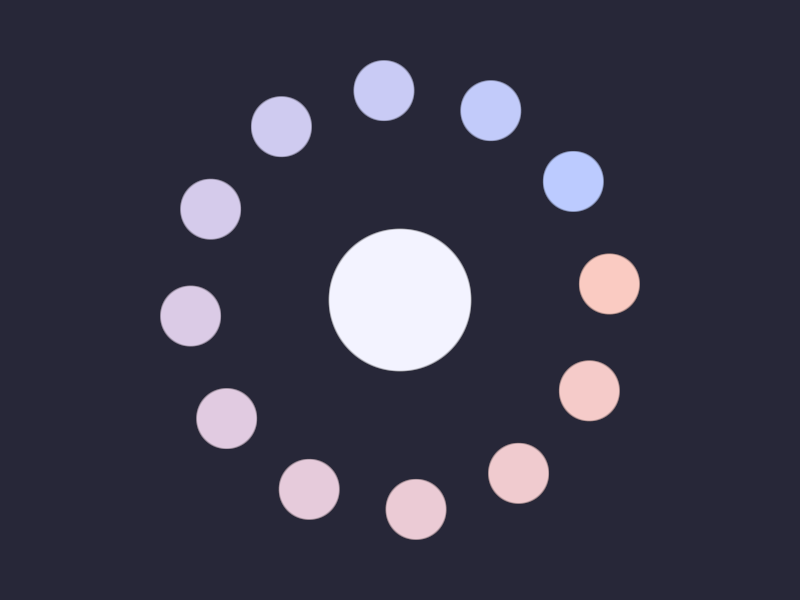
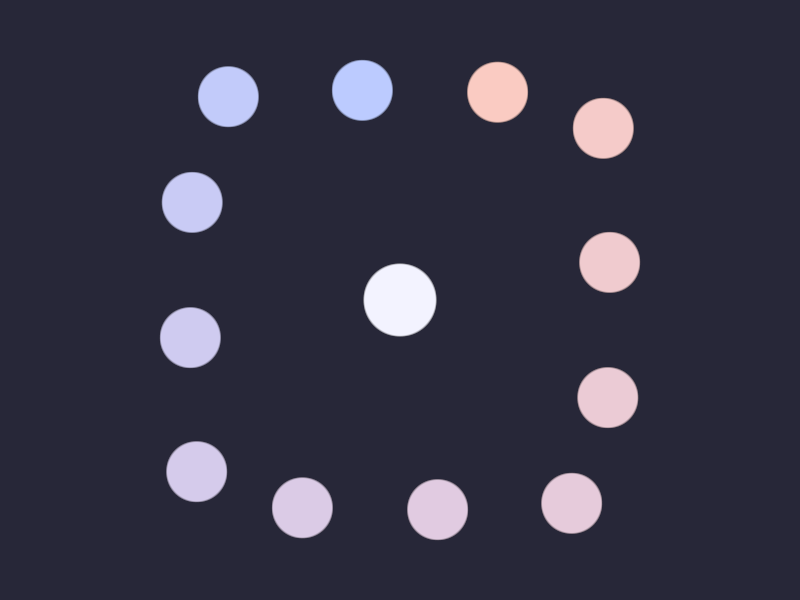
Scene Camera

diff --git a/src/render/camera.rs b/src/render/camera.rs
@@ -6,7 +6,8 @@
 //! uniform is uploaded each frame from the current time and target size.
 
 use crate::render::context::Gpu;
-use glam::Mat4;
+use crate::scene::Camera;
+use glam::prelude::*;
 
 #[repr(C)]
 #[derive(Clone, Copy, bytemuck::Pod, bytemuck::Zeroable)]
@@ -16,19 +17,16 @@ struct CameraUniform {
     _pad: [f32; 3],
 }
 
-/// Camera is currently defined to be exclusively orthographic, but the
-/// future will support multiple cameras and more complex APIs without
-/// needing to make significant pipeline changes. Cameras are always
-/// set to bind group 0.
-pub struct Camera {
-    scene_height: f32,
+/// Contains the data needed to upload a CameraUniform to the GPU at bind group
+/// 0.
+pub struct CameraBuffer {
     buffer: wgpu::Buffer,
     layout: wgpu::BindGroupLayout,
     bind_group: wgpu::BindGroup,
 }
 
-impl Camera {
-    pub fn new(gpu: &Gpu, scene_height: f32) -> Self {
+impl CameraBuffer {
+    pub fn new(gpu: &Gpu) -> Self {
         let buffer = gpu.device().create_buffer(&wgpu::BufferDescriptor {
             label: Some("nelo camera uniform"),
             size: std::mem::size_of::<CameraUniform>() as u64,
@@ -62,7 +60,6 @@ impl Camera {
         });
 
         Self {
-            scene_height,
             buffer,
             layout,
             bind_group,
@@ -79,21 +76,42 @@ impl Camera {
         &self.bind_group
     }
 
-    /// Recompute and upload the view-projection for this frame.
-    pub fn upload(&self, gpu: &Gpu, time: f32, size: (u32, u32)) {
-        let (w, h) = size;
-        let aspect = if h == 0 { 1.0 } else { w as f32 / h as f32 };
-        let half_h = self.scene_height * 0.5;
-        let half_w = half_h * aspect;
+    /// Sample and upload a camera for this frame.
+    pub fn upload(&self, gpu: &Gpu, size: (u32, u32), camera: &Camera, time: f32) {
+        // Sample the camera
+        let (scene_height, transform) = camera.sample(time);
 
-        // Orthographic projection, column-major. Maps
-        let view_proj = glam::camera::lh::proj::directx::orthographic(
-            -half_w, half_w, -half_h, half_h, 0.0, 1.0,
+        // Construct the view matrix to undo the cameras transformation.
+        let inverse = transform.inverse();
+        let matrix = inverse.matrix2;
+        let translation = inverse.translation;
+        let view = Mat4::from_cols(
+            Vec4::new(matrix.x_axis.x, matrix.x_axis.y, 0.0, 0.0),
+            Vec4::new(matrix.y_axis.x, matrix.y_axis.y, 0.0, 0.0),
+            Vec4::new(0.0, 0.0, 1.0, 0.0),
+            Vec4::new(translation.x, translation.y, 0.0, 1.0),
         );
 
+        // Project the world into device space.
+        let (width, height) = size;
+        let aspect = if height != 0 {
+            width as f32 / height as f32
+        } else {
+            1.0
+        };
+        let proj = glam::camera::lh::proj::directx::orthographic(
+            -scene_height * aspect * 0.5,
+            scene_height * aspect * 0.5,
+            -scene_height * 0.5,
+            scene_height * 0.5,
+            0.0,
+            1.0,
+        );
+
+        let view_proj = proj * view;
         let uniform = CameraUniform {
             view_proj,
-            time: time,
+            time,
             _pad: [0.0; 3],
         };
         gpu.queue()

diff --git a/src/render/scene.rs b/src/render/scene.rs
@@ -1,21 +1,32 @@
 //! Scene renderer renders a scene at a given time. It must own its scene.
 
-use crate::render::{Camera, Gpu, Renderer};
+use crate::render::{CameraBuffer, CircleRenderer, Gpu, Renderer};
 use crate::scene::Scene;
 
 pub struct SceneRenderer {
-    camera: Camera,
     scene: Scene,
+    camera_buffer: CameraBuffer,
     renderers: Vec<Box<dyn Renderer>>,
 }
 
 impl SceneRenderer {
-    pub fn new(camera: Camera, scene: Scene) -> Self {
+    pub fn new(gpu: &Gpu, format: wgpu::TextureFormat, scene: Scene) -> Self {
+        let camera_buffer = CameraBuffer::new(&gpu);
+        let renderers: Vec<Box<dyn Renderer>> = vec![Box::new(CircleRenderer::new(
+            gpu,
+            &camera_buffer.layout(),
+            format,
+        ))];
+
         Self {
             scene,
-            camera,
-            renderers: Vec::new(),
+            camera_buffer,
+            renderers,
         }
+    }
+
+    pub fn camera_buffer(&self) -> &CameraBuffer {
+        &self.camera_buffer
     }
 
     pub fn add(&mut self, renderer: impl Renderer + 'static) {
@@ -30,9 +41,10 @@ impl SceneRenderer {
             renderer.prepare(&gpu, &self.scene, t);
         }
 
-        // Update the camera data.
+        // Upload the camera data into the buffer.
         let size = (view.texture().width(), view.texture().height());
-        self.camera.upload(gpu, t, size);
+        self.camera_buffer
+            .upload(gpu, size, &self.scene.camera(), t);
 
         // Get our command encoder and build our render pass.
         let mut encoder = gpu
@@ -64,10 +76,9 @@ impl SceneRenderer {
                 multiview_mask: None,
             });
 
-            // Camera is always at binding 0.
-            pass.set_bind_group(0, self.camera.bind_group(), &[]);
-
             for renderer in self.renderers.iter() {
+                // Camera is bound to group zero, but renderers are free to override.
+                pass.set_bind_group(0, self.camera_buffer.bind_group(), &[]);
                 renderer.submit(&mut pass);
             }
         }

diff --git a/src/scene.rs b/src/scene.rs
@@ -1,11 +1,13 @@
 //! A [`Scene`] is an interface between data and rendering.
 
+pub mod camera;
 pub mod component;
 pub mod entity;
 pub mod path;
 mod registry;
 pub mod transform;
 
+pub use camera::Camera;
 pub use component::{Circle, Fill};
 pub use entity::{EntityId, EntityRef};
 pub(crate) use registry::{Query, Registry};
@@ -26,6 +28,7 @@ pub struct Scene {
     registry: Registry,
     active: Vec<EntityId>,
     next_id: usize,
+    camera: Camera,
 }
 
 impl Scene {
@@ -34,6 +37,7 @@ impl Scene {
             registry: Registry::new(),
             active: Vec::new(),
             next_id: 0,
+            camera: Camera::new(),
         }
     }
 
@@ -43,6 +47,11 @@ impl Scene {
         self.next_id += 1;
         self.active.push(id);
         EntityRef::new(&mut self.registry, id).attach(Transform::default())
+    }
+
+    /// Returns a mutable refernece to this scene's camera.
+    pub fn camera(&mut self) -> &mut Camera {
+        &mut self.camera
     }
 
     /// Returns all attached data of a certain type sorted by EntityId.
@@ -66,12 +75,6 @@ impl Scene {
     /// up to five types specified by the generic tuple `T`.
     pub fn view_tuple<T: Query>(&self) -> T::Item<'_> {
         self.registry.view_tuple::<T>()
-    }
-
-    /// Returns an `EntityRef` with circle geometry attached. The default
-    /// circle is at the world origin with a radius of one and white fill.
-    pub fn circle(&mut self) -> EntityRef<'_> {
-        self.create().attach(Circle).fill(Vec4::ONE)
     }
 
     /// Returns an Some with a handle to the entity if it exists, or none otherwise.

diff --git a/examples/headless.rs b/examples/headless.rs
@@ -1,11 +1,10 @@
 //! Renderers the demo scene at t=1.0 sec to a PNG file.
 
-use nelo::render::{Camera, CircleRenderer, Gpu, SceneRenderer, Target, TextureTarget};
+use nelo::render::{Gpu, SceneRenderer, Target, TextureTarget};
 use nelo::scene::Scene;
 
 const WIDTH: u32 = 800;
 const HEIGHT: u32 = 600;
-const SCENE_HEIGHT: f32 = 10.0;
 const SCENE_TIME: f32 = 1.0;
 
 fn main() {
@@ -15,15 +14,11 @@ fn main() {
 async fn run() {
     let gpu = Gpu::headless().await;
 
-    // Create a texture target for this single pass.
+    // Setup a target and renderer
     let mut target = TextureTarget::new(&gpu, WIDTH, HEIGHT);
+    let mut renderer = SceneRenderer::new(&gpu, target.format(), Scene::demo());
 
-    // Build a renderer from our scene.
-    let camera = Camera::new(&gpu, SCENE_HEIGHT);
-    let circles = CircleRenderer::new(&gpu, camera.layout(), target.format());
-    let mut renderer = SceneRenderer::new(camera, Scene::demo());
-    renderer.add(circles);
-
+    // Run the draw loop exactly once.
     let frame = target.acquire(&gpu).expect("offscreen frame");
     renderer.render(&gpu, &frame.view, SCENE_TIME);
 

diff --git a/native/src/main.rs b/native/src/main.rs
@@ -1,13 +1,11 @@
 use nelo::prelude::*;
-use nelo::render::{Camera, CircleRenderer, Gpu, SceneRenderer, Target, WindowTarget};
+use nelo::render::{Gpu, SceneRenderer, Target, WindowTarget};
 use std::sync::Arc;
 use std::time::Instant;
 use winit::application::ApplicationHandler;
 use winit::event::WindowEvent;
 use winit::event_loop::{ActiveEventLoop, EventLoop};
 use winit::window::{Window, WindowId};
-
-const SCENE_HEIGHT: f32 = 10.0;
 
 struct RenderState {
     gpu: Gpu,
@@ -54,11 +52,7 @@ impl ApplicationHandler for App {
 
         let (gpu, surface) = pollster::block_on(Gpu::with_surface(window.clone()));
         let target = WindowTarget::new(&gpu, surface, size.width, size.height);
-        let camera = Camera::new(&gpu, SCENE_HEIGHT);
-
-        let circles = CircleRenderer::new(&gpu, camera.layout(), target.format());
-        let mut renderer = SceneRenderer::new(camera, Scene::demo());
-        renderer.add(circles);
+        let renderer = SceneRenderer::new(&gpu, target.format(), Scene::demo());
 
         self.window = Some(window);
         self.render_state = Some(RenderState {

diff --git a/src/scene/camera.rs b/src/scene/camera.rs
@@ -1,0 +1,34 @@
+//! Each scene has exactly one camera. It defines a height and a transform.
+
+use crate::scene::{Transform, Transformable};
+use crate::timeline::Timeline;
+use glam::prelude::Affine2;
+
+pub struct Camera {
+    height: Timeline<f32>,
+    transform: Transform,
+}
+
+impl Camera {
+    pub fn height(&mut self, height: impl Into<Timeline<f32>>) {
+        self.height = height.into();
+    }
+
+    /// Creates a new camera with a default height of 10.0
+    pub fn new() -> Self {
+        Self {
+            height: Timeline::constant(10.0),
+            transform: Transform::default(),
+        }
+    }
+
+    pub fn sample(&self, t: f32) -> (f32, Affine2) {
+        (self.height.sample(t), self.transform.sample(t))
+    }
+}
+
+impl Transformable for Camera {
+    fn transform(&mut self) -> &mut Transform {
+        &mut self.transform
+    }
+}

diff --git a/src/scene/component.rs b/src/scene/component.rs
@@ -1,5 +1,6 @@
 //! A collection of components which are used by the renderers.
 
+use crate::scene::{EntityRef, Scene};
 use crate::timeline::Timeline;
 use glam::prelude::*;
 
@@ -13,5 +14,13 @@ pub struct Fill(pub Timeline<Vec4>);
 impl Fill {
     pub fn sample(&self, t: f32) -> Vec4 {
         self.0.sample(t)
+    }
+}
+
+impl Scene {
+    /// Returns an `EntityRef` with circle geometry attached. The default
+    /// circle is at the world origin with a radius of one and white fill.
+    pub fn circle(&mut self) -> EntityRef<'_> {
+        self.create().attach(Circle).fill(Vec4::ONE)
     }
 }

diff --git a/src/render/renderer.rs b/src/render/renderer.rs
@@ -5,7 +5,7 @@ use crate::scene::Scene;
 /// Renderers which are designed for a specific type of geometry should filter
 /// by overriding geometry method. All renderers should be mindful of the camera
 /// at bind group one.
-pub trait Renderer {
+pub trait Renderer: 'static {
     /// Prepares the renderer to draw. Copies data into buffers.
     fn prepare(&mut self, gpu: &Gpu, scene: &Scene, t: f32);
 

diff --git a/src/render.rs b/src/render.rs
@@ -13,7 +13,7 @@ pub mod renderer;
 pub mod scene;
 pub mod target;
 
-pub use camera::Camera;
+pub use camera::CameraBuffer;
 pub use circle::CircleRenderer;
 pub use context::Gpu;
 pub use renderer::Renderer;
